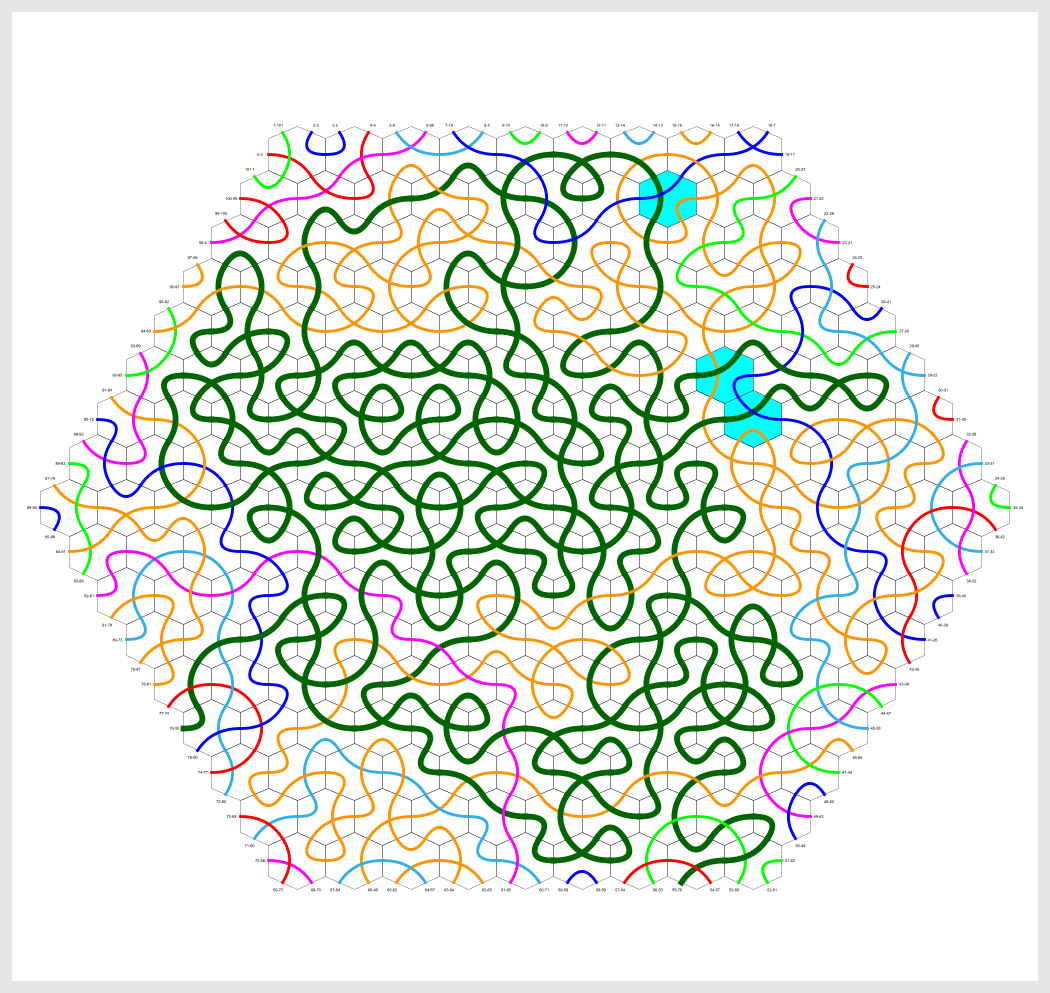
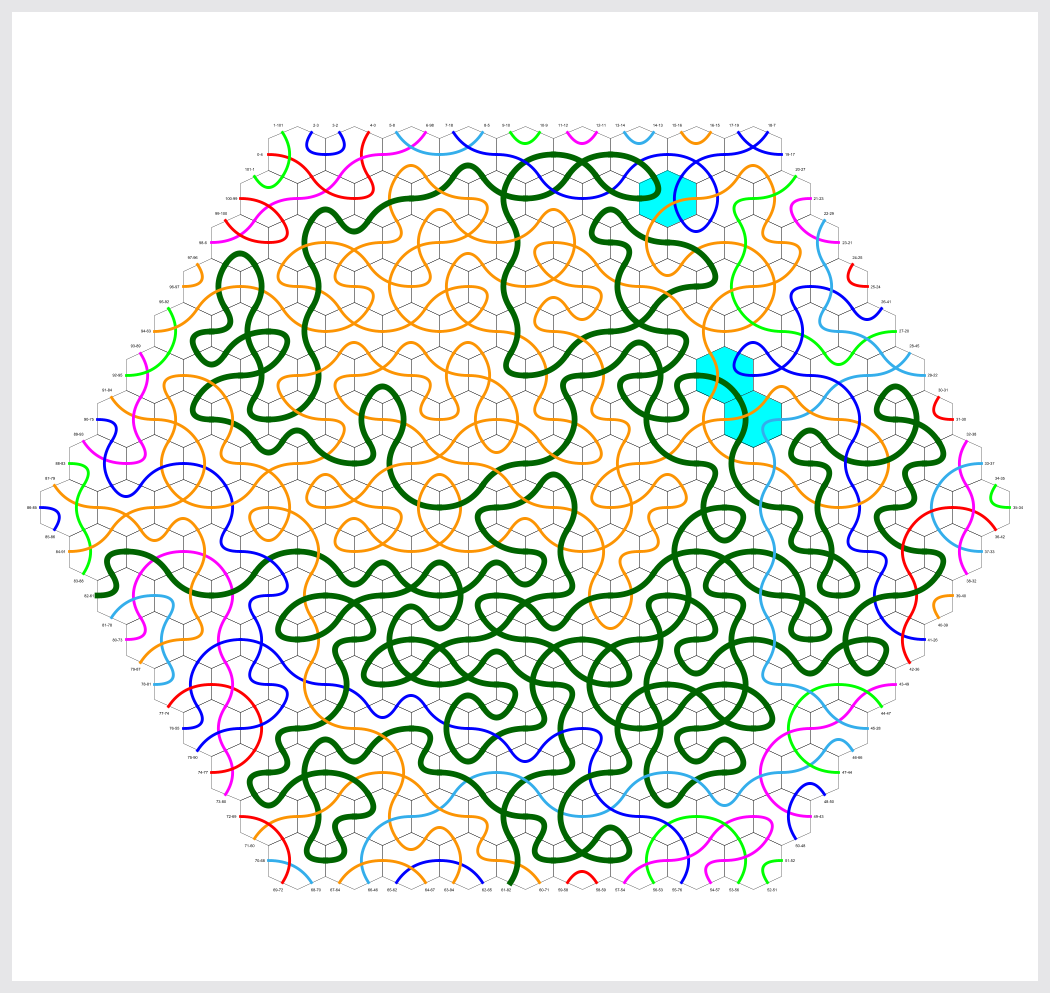
Add reheated rotation search

Changed region(s): [[0.0914, 0.1561, 0.9143, 0.9053], [0.7314, 0.7492, 0.7924, 0.7805]]

diff --git a/src/HexTiles.rs b/src/HexTiles.rs
@@ -70,6 +70,9 @@ const MULTI_TRUNK_LNS_LIMIT_MS: u64 = 150;
 const ENABLE_MULTI_TRUNK_LNS: bool = true;
 const SA_START_TEMP: f64 = 240.0;
 const SA_END_TEMP: f64 = 0.01;
+const SA_CYCLES: usize = 3;
+const SMALL_TRIANGLE_INTERVAL_MS: u64 = 180;
+const SMALL_TRIANGLE_BUDGET_MS: u64 = 2;
 const POSTPROCESS_LIMIT_MS: u64 = 450;
 const ALL_ORIENTATIONS: u8 = (1 << 6) - 1;
 
@@ -3725,8 +3728,18 @@ fn search_rotations(
     let mut next_extend = start + Duration::from_millis(LOCAL_EXTEND_INTERVAL_MS);
     let mut next_repair = start + Duration::from_secs_f64(0.65 * span);
     let mut next_connect = start + Duration::from_secs_f64(0.55 * span);
+    let triangles = if board.valid_count <= 80 {
+        collect_triangles(board)
+    } else {
+        Vec::new()
+    };
+    let mut next_triangle = start + Duration::from_millis(SMALL_TRIANGLE_INTERVAL_MS);
+    let mut triangle_sweeps = 0usize;
+    let mut triangle_accepts = 0usize;
     let mut now = Instant::now();
     let mut temperature = start_temperature;
+    let temperature_cycles = SA_CYCLES;
+    let mut active_cycle = 0usize;
     let mut undo = Vec::with_capacity(4);
     let mut proposed = Vec::with_capacity(4);
     let mut updates = Vec::with_capacity(board.pairs.len());
@@ -3741,7 +3754,21 @@ fn search_rotations(
                 break;
             }
             let frac = (now.duration_since(start).as_secs_f64() / span).min(1.0);
-            temperature = start_temperature.powf(1.0 - frac) * end_temperature.powf(frac);
+            let scaled = frac * temperature_cycles as f64;
+            let cycle = (scaled.floor() as usize).min(temperature_cycles - 1);
+            if cycle > active_cycle {
+                active_cycle = cycle;
+                if cycle == 1 {
+                    current.clone_from_slice(target_fallback);
+                } else {
+                    current.clone_from(&best);
+                }
+                current_stats = board.evaluate_with_scratch(&current, &mut eval_scratch);
+                differential = DifferentialEval::new(board, &current, &mut eval_scratch);
+            }
+            let cycle_frac = (scaled - cycle as f64).min(1.0);
+            temperature = start_temperature.powf(1.0 - cycle_frac)
+                * end_temperature.powf(cycle_frac);
         }
         if (board.W + 1) / 2 >= 17 && now >= next_extend {
             next_extend += Duration::from_millis(LOCAL_EXTEND_INTERVAL_MS);
@@ -3766,6 +3793,34 @@ fn search_rotations(
                         best_stats = next;
                         best.clone_from(&current);
                     }
+                }
+            }
+            now = Instant::now();
+            iterations += 1;
+            continue;
+        }
+        if !triangles.is_empty() && now >= next_triangle {
+            next_triangle += Duration::from_millis(SMALL_TRIANGLE_INTERVAL_MS);
+            triangle_sweeps += 1;
+            let local_deadline =
+                (now + Duration::from_millis(SMALL_TRIANGLE_BUDGET_MS)).min(deadline);
+            let accepted = reduce_rotations_by_triangles_with(
+                board,
+                &mut current,
+                &triangles,
+                local_deadline,
+                false,
+            );
+            if accepted > 0 {
+                triangle_accepts += accepted;
+                current_stats = board.evaluate_with_scratch(&current, &mut eval_scratch);
+                differential = DifferentialEval::new(board, &current, &mut eval_scratch);
+                if can_save(current_stats.matched)
+                    && current_stats.quality() > best_stats.quality()
+                    && board.tester_safe(&current)
+                {
+                    best_stats = current_stats;
+                    best.clone_from(&current);
                 }
             }
             now = Instant::now();
@@ -3989,10 +4044,12 @@ fn search_rotations(
         i64::MAX
     };
     let final_cycles = board.alternating_cycles(orientation);
-    eprintln!("rotation_search iterations={} temp={}->{} target_k={} extends={}/{} repairs={}/{} connects={}/{} final_cycles={}/{} diff_avg={:.2} bonuses={} full_bonus_paths={} total_bonus_uses={} rotation_budget={}/{} longest3={:?} weighted3={:?} best_score={}",
-        iterations, start_temperature, end_temperature, target_matched,
+    eprintln!("rotation_search iterations={} temp={}->{} reheats={} target_k={} extends={}/{} repairs={}/{} connects={}/{} triangles={}/{} final_cycles={}/{} diff_avg={:.2} bonuses={} full_bonus_paths={} total_bonus_uses={} rotation_budget={}/{} longest3={:?} weighted3={:?} best_score={}",
+        iterations, start_temperature, end_temperature, temperature_cycles - 1,
+        target_matched,
         extend_accepts, extend_attempts, repair_accepts, repair_attempts,
         connect_accepts, connect_attempts,
+        triangle_accepts, triangle_sweeps,
         final_cycles, board.pairs.len(),
         differential_pairs as f64 / iterations.max(1) as f64,
         board.bonus.iter().filter(|&&x| x).count(),
@@ -4388,13 +4445,13 @@ fn collect_triangles(board: &Board) -> Vec<[usize; 3]> {
     triangles
 }
 
-fn reduce_rotations_by_triangles(
+fn reduce_rotations_by_triangles_with(
     board: &Board,
     orientation: &mut Vec<u8>,
+    triangles: &[[usize; 3]],
     deadline: Instant,
+    log: bool,
 ) -> usize {
-    let triangles = collect_triangles(board);
-
     let mut scratch = EvalScratch::new(board.valid.len());
     let mut stats = board.evaluate_with_scratch(orientation, &mut scratch);
     let initial_moves = stats.moves;
@@ -4403,15 +4460,17 @@ fn reduce_rotations_by_triangles(
     let mut accepted = 0usize;
     loop {
         let mut changed = false;
-        for cells in &triangles {
+        for cells in triangles {
             if Instant::now() >= deadline {
-                eprintln!(
-                    "triangle_post accepted={} rotations_saved={} total_delta={} score_delta={}",
-                    accepted,
-                    initial_moves - stats.moves,
-                    stats.total - initial_total,
-                    stats.score - initial_score
-                );
+                if log {
+                    eprintln!(
+                        "triangle_post accepted={} rotations_saved={} total_delta={} score_delta={}",
+                        accepted,
+                        initial_moves - stats.moves,
+                        stats.total - initial_total,
+                        stats.score - initial_score
+                    );
+                }
                 return accepted;
             }
             let current = [
@@ -4465,14 +4524,25 @@ fn reduce_rotations_by_triangles(
             break;
         }
     }
-    eprintln!(
-        "triangle_post accepted={} rotations_saved={} total_delta={} score_delta={}",
-        accepted,
-        initial_moves - stats.moves,
-        stats.total - initial_total,
-        stats.score - initial_score
-    );
+    if log {
+        eprintln!(
+            "triangle_post accepted={} rotations_saved={} total_delta={} score_delta={}",
+            accepted,
+            initial_moves - stats.moves,
+            stats.total - initial_total,
+            stats.score - initial_score
+        );
+    }
     accepted
+}
+
+fn reduce_rotations_by_triangles(
+    board: &Board,
+    orientation: &mut Vec<u8>,
+    deadline: Instant,
+) -> usize {
+    let triangles = collect_triangles(board);
+    reduce_rotations_by_triangles_with(board, orientation, &triangles, deadline, true)
 }
 
 fn collect_rhombi(board: &Board) -> Vec<[usize; 4]> {

diff --git a/idea.md b/idea.md
@@ -344,3 +344,13 @@ The exact-target experiment was revisited without constraining compact SA or the
 The target must only be locked when construction is already within the four retained connection-count levels of all-pairs completion.  The first 100-seed exact-target run exposed construction targets of only `k=1/2` on seeds 88/95; locking them produced 105/116, while the former lower-bound search grew them to `k=8/11` and 848/616.  With the near-complete guard, seeds 1/88/95 scored 520/848/616 and the repeated 100-seed run reached `mean_log10=5.168758`, versus 5.150260 for the previous main run (59 improved, 5 tied, 36 worse).
 
 Endpoint-distance stratification supports a distance-dependent target.  Across seeds 1--100, log-score change correlated by +0.44 with mean pair distance normalized by board radius, +0.46 with the fraction of pairs at least one radius apart, and +0.45 with the fraction of minimum required segments owned by the longest two pairs.  The top quartile by far-pair fraction averaged +0.0717 log10 with 21/25 improvements; the other three quartiles were approximately flat.  Mean distance alone is less direct than the releasable-segment share of the two or three pairs that would actually be dropped.
+
+## Small-board triangle sweeps and reheating (2026-08-15)
+
+For boards with at most 80 cells, triangle-equivalent rotation reductions are retried every 180 ms with a 2 ms cap.  The final postprocess already iterates triangles to a fixed point, so increasing only its rounds is redundant; periodic sweeps matter because SA creates new reducible signatures.  They accepted zero to seven changes over 48 sweeps while preserving essentially the same total rotation-SA iteration count.
+
+SA now uses three temperature cycles in the same total time on every board.  It starts from the compact/reallocation result, resets to the construction target at the first reheat, and resets to the incumbent at the second; each cycle cools from 240 to 0.01.  This combines independent topology starts with incumbent reheating.  Across all 16 seeds with `N<=5`, adjacent runs measured `mean_log10=3.374562` for the previous main, 3.381610 with triangle sweeps, and 3.389910 with sweeps plus two reheats.  On seeds 1--10, two-run means were 5.169674 with all-board reheating and 5.162185 for the adjacent previous-main runs, a +0.007488 log10 gain (about 1.74% geometrically).  Triangle sweeps remain limited to at most 80 cells because their current candidate evaluation scans the full board.
+
+Further splitting small-board SA was not stable.  On all 16 `N<=5` seeds, single-run means were 3.384320 with four cycles, 3.387576 with five, and 3.391002 with six.  Six initially edged the three-cycle 3.389910, but the repeated two-run means reversed to 3.391015 for three cycles versus 3.390288 for six.  Retain three cycles: shorter epochs sometimes improve one topology but do not reliably give long bonus trunks enough time to mature.
+
+A scout-then-polish schedule was also rejected.  Three high-temperature starts consuming 60% of the time followed by a 40% low-temperature finish scored 3.387296 on the same small-board set.  Reducing scouting to 30% (`240->60`, 10% per start) and giving 70% to the selected true-score incumbent recovered only to 3.389232, still below the repeated three-full-cycle mean of 3.391015.  Early true score does not reliably identify the topology whose bonus trunk will mature later; retain three complete cooling cycles rather than selecting a scout prematurely.
